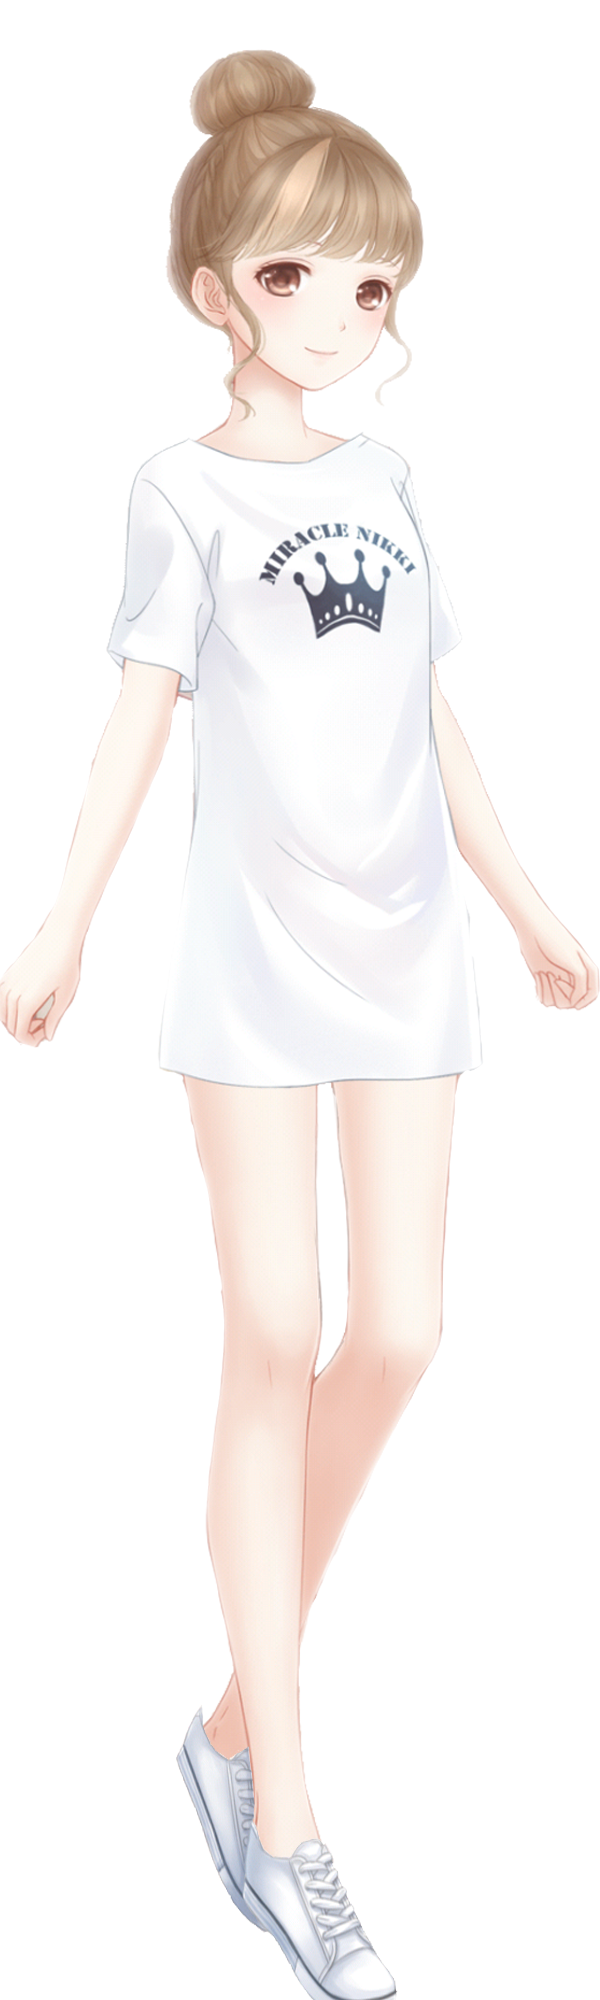
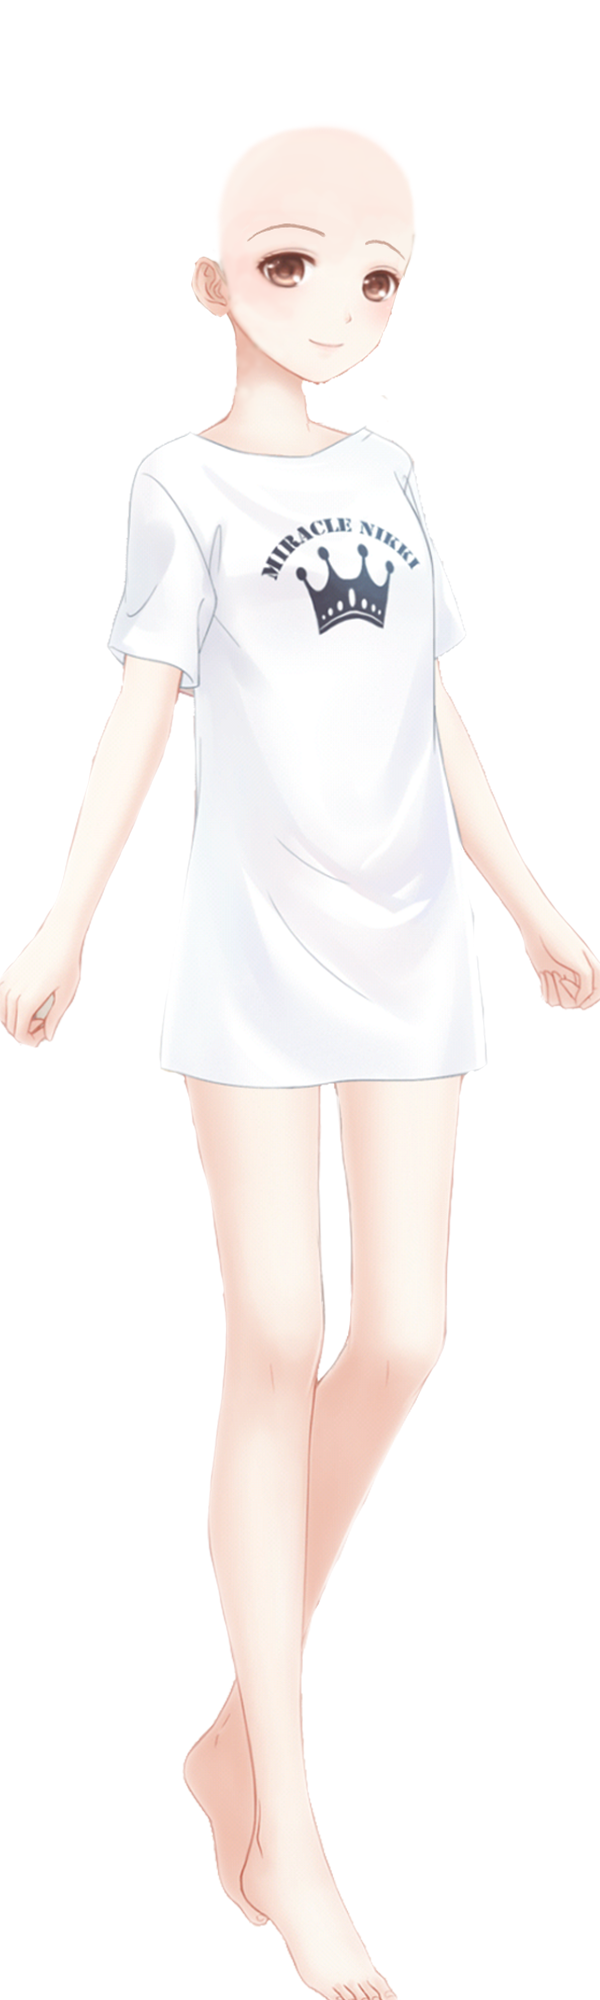
完善111衣服

diff --git a/3. 前端代码/yishe/src/wear/Wear.js b/3. 前端代码/yishe/src/wear/Wear.js
@@ -6,7 +6,7 @@ import './wear.css';
 import didian from '../images/didian.png'
 import qing from '../images/yang.png'
 import mote from '../images/mote.png'
-import mote2 from '../images/motewu.png'
+import mote2 from '../images/mote2.png'
 import fenxiang from '../images/fenxiang(1).png'
 import pengyouquan from '../images/pengyouquan.png'
 import weixin from '../images/weixin (2).png'
@@ -85,7 +85,7 @@ export default class Wear extends Component {
         weather:'晴',//天气
         idx:0,//显示天气图标
         arr:[],arr_s:[],//大小图地址
-        ku:[],ku_s:[],qun:[],qun_s:[],yi:[],yi_s:[],tao:[],tao_s:[],tuijian:[],tuijian_s:[],//小图标
+        ku:[],ku_s:[],qun:[],qun_s:[],yi:[],yi_s:[],tao:[],tao_s:[],tuijian:[],tuijian_s:[],xie:[],xie_s:[],//小图标
         qun_color:[],ku_color:[],yi_color:[],tao_color:[],
         count:0,
         href:'#/apptab',
@@ -127,21 +127,24 @@ export default class Wear extends Component {
             var qunqun=[],qunqun_s=[];//裙子
             var yiyi=[],yiyi_s=[];//上衣
             var taotao=[],taotao_s=[];//外套
+            var xie=[],xie_s=[];
             var qun_c=[],ku_c=[],yi_c=[],tao_c=[];
-            if(res[0].cloSmallPic){     
+            if(res.length != 0){
             for(var i=0;i<res.length;i++){//循环res的图
               //大小图标地址
               var j = res[i].cloSmallPic.indexOf('/');
               if(res[0].userSex=='女'){
                 res[i].cloSmallPic = "http://47.98.163.228:3001"+res[i].cloSmallPic.substr(j);
                 big[i] = res[i].cloSmallPic;
+                console.log(big[i])
               }else{
                 res[i].cloSmallPic = "http://47.98.163.228:3001"+res[i].cloSmallPic.substr(j);
                 big[i] =  "ht"+res[i].cloSmallPic.substr(j).split('.png')[0]+'_boy.png'
               }
               var name = res[i].cloSmallPic.substr(j).split('/')[4];
               var n = name.split('.')[0];
-              small[i] = "http://47.98.163.228:3001/images/"+n+'_s.png';
+              small[i] = "http://47.98.163.228:3001/aaa/"+n+'_s.png';
+              console.log(small[i])
               //判断裤子，把图存进去
               if(n.indexOf('ku')!=-1){
                 kuku.push(big[i]);
@@ -154,7 +157,7 @@ export default class Wear extends Component {
                 qun_c.push(res[i].cloColor)
               }
               //判断上衣
-              if(n.indexOf('yi')!=-1){
+              if(n.indexOf('yi')!=-1 || n.indexOf('shan')!=-1){
                 yiyi.push(big[i]);
                 yiyi_s.push(small[i])
               }
@@ -162,6 +165,10 @@ export default class Wear extends Component {
               if(n.indexOf('tao')!=-1){
                 taotao.push(big[i]);
                 taotao_s.push(small[i])
+              }
+              if(n.indexOf('xie')!=-1 || n.indexOf('xue')!=-1){
+                xie.push(big[i]);
+                xie_s.push(small[i])
               }
               this.setState({
                 city:res[0].userCity,//城市
@@ -177,6 +184,7 @@ export default class Wear extends Component {
           this.setState({
             qun:qunqun,qun_s:qunqun_s,yi:yiyi,yi_s:yiyi_s,tao:taotao,tao_s:taotao_s,ku:kuku,ku_s:kuku_s,
             qun_color:qun_c,ku_color:ku_c,yi_color:yi_c,tao_color:tao_c,
+            xie:xie,xie_s:xie_s
           })
           //实现推荐
           var tuitui=[],tuitui_s=[];
@@ -305,6 +313,12 @@ export default class Wear extends Component {
       document.getElementById('mote4').src=this.state.tao[idx];
       document.getElementById('mote4').style.display = 'block';
     }
+    xie=(idx)=>{
+      document.getElementById('mote').style.display = 'none';
+      document.getElementById('mote_2').style.display = 'block';
+      document.getElementById('mote5').src=this.state.xie[idx];
+      document.getElementById('mote5').style.display = 'block';
+    }
  //变色（小图）
     change_color_small(it,col){
       var now  = it.split('.')
@@ -319,8 +333,8 @@ export default class Wear extends Component {
         case '紫色':color_s='_zi';break;
         default:color_s='';break;
       }
-      var now_src = now[0]+'.'+now[1]+'.'+now[2]+'.'+now[3]+color_s+'.png'
-      return now_src;
+      var now_src = now[0]+'.'+now[1]+'.'+now[2]+'.'+now[3]+color_s+'.png';
+      return it;
     }   
 //变色
     change_color(it,col){
@@ -541,16 +555,18 @@ export default class Wear extends Component {
                     this.state.sex=='女'?
                     <div id="view">
                          {/* 模特本身 */}
-                        <img src={mote2} id="mote"/>
+                        <img src={mote} id="mote"/>
                          {/* 把src替换成裙子或裤子 */}
                         <img src={mote2} id="mote_2"/>
                          <div className="icon" id="mote22"><img  className='icon3'  id="mote_4" /></div>
                          {/* 裤子、裙子 */}
                         <img  id='mote2' />
                         <img  id='mote3' />
-                        <img  id='mote4' />               
+                        <img  id='mote4' />             
+                        <img  id='mote5' />  
                         <div className="icon" id="mote22"><img  className='icon4'  id="mote_5" /></div>
                         <img  id='mote6' />
+
                         {/* 美妆部分 */}
                         <Link to={"/pretty/"+this.props.id}>
                         <img src={eye[this.state.index2]} id="t22"/>
@@ -581,36 +597,6 @@ export default class Wear extends Component {
                     tabBarPosition="left"
                     tabDirection="vertical"
                   >
-                    <div style={{width:'100px', display: 'flex',
-                      height: '1000px', backgroundColor: '#fff' }}>
-                      <ul className="yifu" id='yifu1'>
-                      {
-                          this.state.tuijian_s.map((item,idx)=>(
-                            <li key={idx} style={{height:'100px'}}>
-                              <img style={{width:'85%'}} 
-                                src={item} 
-                                onClick={this.tuijian.bind(this,idx)}
-                                />
-                            </li>
-                          ))
-                        }
-                      </ul>
-                    </div>
-                    <div style={{width:'100px', display: 'flex',
-                      height: '500px', backgroundColor: '#fff' }}>
-                      <ul className="yifu" id='yifu2'>
-                      {
-                          this.state.tao_s.map((item,idx)=>(
-                            <li  key={idx} style={{height:'100px'}}>
-                              <img style={{width:'85%'}} 
-                                src={item} 
-                                onClick={this.waitao.bind(this,idx)}
-                                />
-                            </li>
-                          ))
-                        }
-                      </ul>
-                    </div>
                     <div style={{width:'100px', display: 'flex',
                       height: '500px', backgroundColor: '#fff' }}>
                       <ul className="yifu" id='yifu3'>
@@ -650,6 +636,36 @@ export default class Wear extends Component {
                               <img style={{width:'85%'}} 
                                 src={item} 
                                 onClick={this.qunzi.bind(this,idx)}
+                                />
+                            </li>
+                          ))
+                        }
+                      </ul>
+                    </div>
+                    <div style={{width:'100px', display: 'flex',
+                      height: '500px', backgroundColor: '#fff' }}>
+                      <ul className="yifu" id='yifu2'>
+                      {
+                          this.state.tao_s.map((item,idx)=>(
+                            <li  key={idx} style={{height:'100px'}}>
+                              <img style={{width:'85%'}} 
+                                src={item} 
+                                onClick={this.waitao.bind(this,idx)}
+                                />
+                            </li>
+                          ))
+                        }
+                      </ul>
+                    </div>
+                    <div style={{width:'100px', display: 'flex',
+                      height: '1000px', backgroundColor: '#fff' }}>
+                      <ul className="yifu" id='yifu1'>
+                      {
+                          this.state.xie_s.map((item,idx)=>(
+                            <li key={idx} style={{height:'100px'}}>
+                              <img style={{width:'85%'}} 
+                                src={item} 
+                                onClick={this.xie.bind(this,idx)}
                                 />
                             </li>
                           ))
@@ -700,11 +716,11 @@ export default class Wear extends Component {
 }
 
 const tabs = [
-  { title: '为你推荐'},
-  { title: '外套' },
   { title: '上衣'},
   { title: '裤子'},
   { title: '连衣裙'},
+  { title: '外套' },
+  { title: '鞋子'},
 ];
 const tabs2 = [
     { title: '为你推荐'},

diff --git a/3. 前端代码/yishe/src/wear/wear.css b/3. 前端代码/yishe/src/wear/wear.css
@@ -93,6 +93,14 @@ left:-150px;
   position:absolute;
   display:none;
 }
+/* #mote7{
+  top:100px;
+  left:11px;
+  width:40%;
+  height:100px;
+  position:absolute;
+  display:none;
+} */
 #mote2{
   top:100px;
   left:11px;
